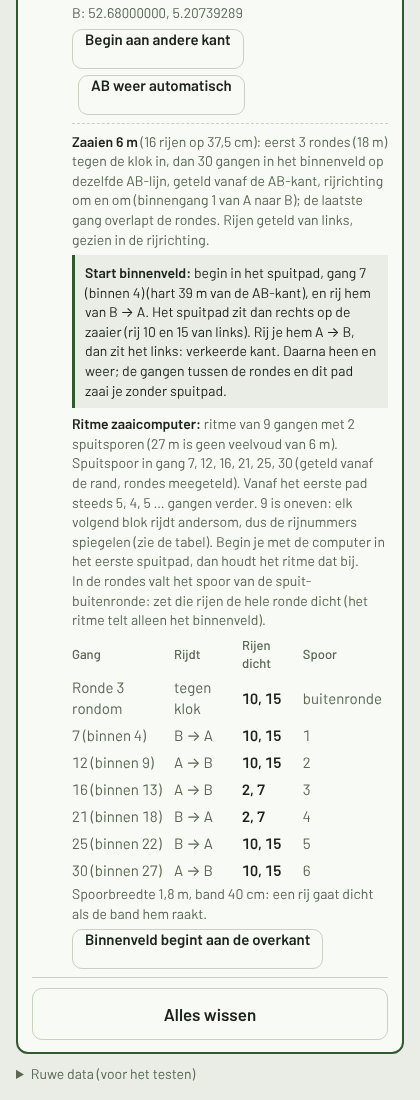
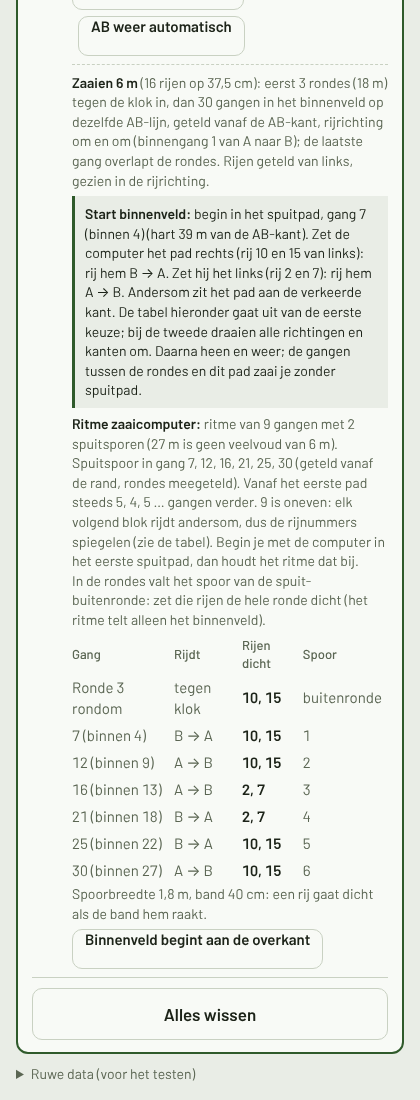
Startadvies: rijrichting hangt af van de kant die de computer dichtzet (versie 27)
De app weet niet welke kant de zaaicomputer dichtzet. Het startadvies
geeft nu beide: pad rechts (rijen) -> zo rijden, pad links (gespiegelde
rijen) -> andersom, in plaats van één richting als "goed".

sw.js perceelkaart-v23.

Claude-Session: https://claude.ai/code/session_0141yU7QwoQrc2sUcXuGbhD3

diff --git a/index.html b/index.html
@@ -128,7 +128,7 @@ details pre { white-space: pre-wrap; word-break: break-all; background: var(--su
 </head>
 <body>
 <header>
-  <h1>Perceelkaart</h1><span class="tag">versie 26</span>
+  <h1>Perceelkaart</h1><span class="tag">versie 27</span>
 </header>
 <div id="map" role="application" aria-label="Kaart, tik op een perceel"></div>
 <div class="panel">
@@ -542,8 +542,10 @@ details pre { white-space: pre-wrap; word-break: break-all; background: var(--su
     if (eerste) {
       const x = document.createElement("div"); x.className = "start";
       const om = eerste.heen ? "B → A" : "A → B", ander = kantVan(eerste.dicht.map(r => z.rijen + 1 - r));
-      x.innerHTML = "<strong>Start binnenveld:</strong> " + esc("begin in het spuitpad, gang " + gNaam(eerste) + " (hart " + mDec(Math.round(eerste.midden * 10) / 10) + " van de AB-kant), en rij hem van " +
-        (eerste.heen ? "A → B" : "B → A") + ". Het spuitpad zit dan " + kantVan(eerste.dicht) + " op de zaaier (rij " + eerste.dicht.join(" en ") + " van links). Rij je hem " + om + ", dan zit het " + ander + ": verkeerde kant. Daarna heen en weer; de gangen tussen de rondes en dit pad zaai je zonder spuitpad.");
+      const spiegel = eerste.dicht.map(r => z.rijen + 1 - r).sort((p, q) => p - q);
+      x.innerHTML = "<strong>Start binnenveld:</strong> " + esc("begin in het spuitpad, gang " + gNaam(eerste) + " (hart " + mDec(Math.round(eerste.midden * 10) / 10) + " van de AB-kant). " +
+        "Zet de computer het pad " + kantVan(eerste.dicht) + " (rij " + eerste.dicht.join(" en ") + " van links): rij hem " + (eerste.heen ? "A → B" : "B → A") +
+        ". Zet hij het " + ander + " (rij " + spiegel.join(" en ") + "): rij hem " + om + ". Andersom zit het pad aan de verkeerde kant. De tabel hieronder gaat uit van de eerste keuze; bij de tweede draaien alle richtingen en kanten om. Daarna heen en weer; de gangen tussen de rondes en dit pad zaai je zonder spuitpad.");
       d.appendChild(x);
     }
     // Ritme voor de zaaicomputer: welke binnengangen een spuitspoor krijgen

diff --git a/sw.js b/sw.js
@@ -1,6 +1,6 @@
 // Perceelkaart service worker: nodig om als app te installeren, en de app zelf werkt ook zonder bereik.
 // Kaarttegels en PDOK-gegevens gaan er niet doorheen; percelen bewaart perceel.js zelf.
-const CACHE = "perceelkaart-v22";
+const CACHE = "perceelkaart-v23";
 const SHELL = ["./", "./index.html", "./manifest.webmanifest", "./icon-192.png", "./icon-512.png", "./perceel.js",
   "./vendor/leaflet/leaflet.js", "./vendor/leaflet/leaflet.css", "./vendor/polygon-clipping/polygon-clipping.umd.min.js",
   "./fonts/barlow-latin-400-normal.woff2", "./fonts/barlow-latin-500-normal.woff2", "./fonts/barlow-latin-600-normal.woff2",
